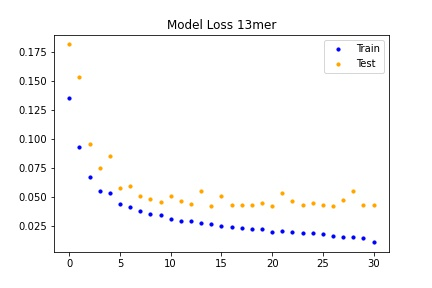
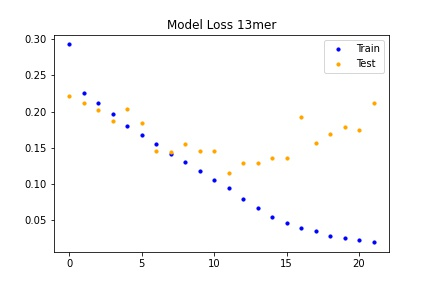
add code to extract feature

diff --git a/tbinet_stuff/analyze_layer.py b/tbinet_stuff/analyze_layer.py
@@ -1,5 +1,3 @@
-## TODO: get the layers from the model.
-## then print and visualize
 import numpy as np
 import scipy.io
 from sklearn import metrics
@@ -22,42 +20,84 @@ from keras.layers.wrappers import Bidirectional, TimeDistributed
 from keras.models import load_model
 from keras.callbacks import ModelCheckpoint, EarlyStopping
 from keras import backend as K
+import tensorflow.keras as keras
+import tensorflow as tf
+import matplotlib.pyplot as plt
 
-def layer_to_visualize(model, layer):
-    inputs = [K.learning_phase()] + model.inputs
-
-    _convout1_f = K.function(inputs, [layer.output])
-    def convout1_f(X):
-        # The [0] is to disable the training phase flag
-        return _convout1_f([0] + [X])
-
-    convolutions = convout1_f(img_to_visualize)
-    convolutions = np.squeeze(convolutions)
-
-    print ('Shape of conv:', convolutions.shape)
-
-    n = convolutions.shape[0]
-    n = int(np.ceil(np.sqrt(n)))
-
-    # Visualization of each filter of the layer
-    fig = plt.figure(figsize=(12,8))
-    for i in range(len(convolutions)):
-        ax = fig.add_subplot(n,n,i+1)
-        ax.imshow(convolutions[i], cmap='gray')
-
-data_folder = "/Users/yibeijia/Downloads/nucleosome_occupancy/tbinet_stuff/model/"
-#data_folder = "/scratch2/yibeijia/nucleosome_occupancy/tbinet_stuff/model/"
+data_folder = "/Users/yibeijia/Downloads/nucleosome_occupancy/tbinet_stuff/model2/"
 model = load_model(data_folder+"tbinet.h5")
-keras.utils.plot_model(model, show_shapes=True, dpi=90)
-# choose any image to want by specifying the index
-img_to_visualize = X_train[65]
+model.load_weights("/Users/yibeijia/Downloads/nucleosome_occupancy/tbinet_stuff/model2/tbinet.12-0.12.hdf5")
 
-# To understand how the attention has helped improve the performance 
-# and interpretability of TF-DNA binding prediction, 
-# we visualized the attention scores generated from TBiNet
+print("model.summary()")
+print(model.summary())
 
-# Conv1D layer
+layer_outputs = [layer.output for layer in model.layers]
 
-# attention layer: get attentino scores from tbinet
-# attention vector ,size 75, for each DNA seq
-# layer_to_visualize(model, convout1)
+# Run the model to predict once
+feature_map_model = tf.keras.models.Model(inputs=model.inputs, outputs=layer_outputs)
+
+# data_folder = "./data/"
+data_folder = "../data/train_test_data/"
+testmat = scipy.io.loadmat(data_folder+'Test_data.mat')
+feature_maps = feature_map_model.predict(np.transpose(testmat['Test_data'],axes=(0,1,2)))
+
+labels = testmat['Test_labels']
+ones = np.flatnonzero(labels == np.max(labels)).T
+zeros = np.flatnonzero(labels == np.min(labels)).T
+print(f'ones.shape {ones.shape}')
+print(f'zeros.shape {zeros.shape}')
+
+def plot_feature_map(y, plt_title):
+    plt.rcParams["figure.figsize"] = 5,2
+    x = range(1,10)
+
+    fig, (ax,ax2) = plt.subplots(nrows=2, sharex=True)
+
+    extent = [x[0]-(x[1]-x[0])/2., x[-1]+(x[1]-x[0])/2.,0,1]
+    ax.imshow(y[np.newaxis,:], cmap="plasma", aspect="auto", extent=extent)
+    ax.set_yticks([])
+    ax.set_xlim(extent[0], extent[1])
+
+    ax2.plot(x,y)
+    fig.suptitle(plt_title)
+    plt.tight_layout()
+    plt.show()
+
+def plot_both_feature_maps(y0, y1, plt_title):
+    plt.rcParams["figure.figsize"] = 5,2
+    x = range(1,10)
+    data = np.concatenate(([y0], [y1]))
+    print(data)
+    fig, axis = plt.subplots()
+
+    extent = [x[0]-(x[1]-x[0])/2., x[-1]+(x[1]-x[0])/2.,0,1]
+    heatmap = axis.pcolor(data, cmap=plt.cm.Blues) 
+    axis.set_yticks(np.arange(data.shape[0])+0.5, minor=False)
+    axis.set_xticks(np.arange(data.shape[1])+0.5, minor=False)
+    
+    row_labels = ["Depleted - 0", "Enriched - 1"]
+    axis.set_yticklabels(row_labels, minor=False)
+    axis.set_xticklabels(x, minor=False)
+    fig.suptitle(plt_title)
+    plt.colorbar(heatmap)
+    plt.tight_layout()
+    plt.show()
+
+
+for layer_name, feature_map in zip(layer_names, feature_maps):
+
+    if layer_name == 'attention':
+        print(feature_map)
+        feature_map -= feature_map.mean()
+        feature_map /= feature_map.std ()
+        print(f'layer_name: {layer_name}')
+        print(f'feature_map.shape: {feature_map.shape}')
+        feature_map_ones = feature_map[ones]
+        feature_map_zeros = feature_map[zeros]
+        print(f'feature_map_ones.shape: {feature_map_ones.shape}')
+        print(f'feature_map_zeros.shape: {feature_map_zeros.shape}')
+        feature_map_avg_ones = feature_map_ones.sum(axis=0)
+        feature_map_avg_zeros = feature_map_zeros.sum(axis=0)
+        plot_feature_map(feature_map_avg_ones, "Feature Map Avg Ones")
+        plot_feature_map(feature_map_avg_zeros, "Feature Map Avg Zeros")
+        plot_both_feature_maps(feature_map_avg_ones, feature_map_avg_zeros,"Feature Maps") 
